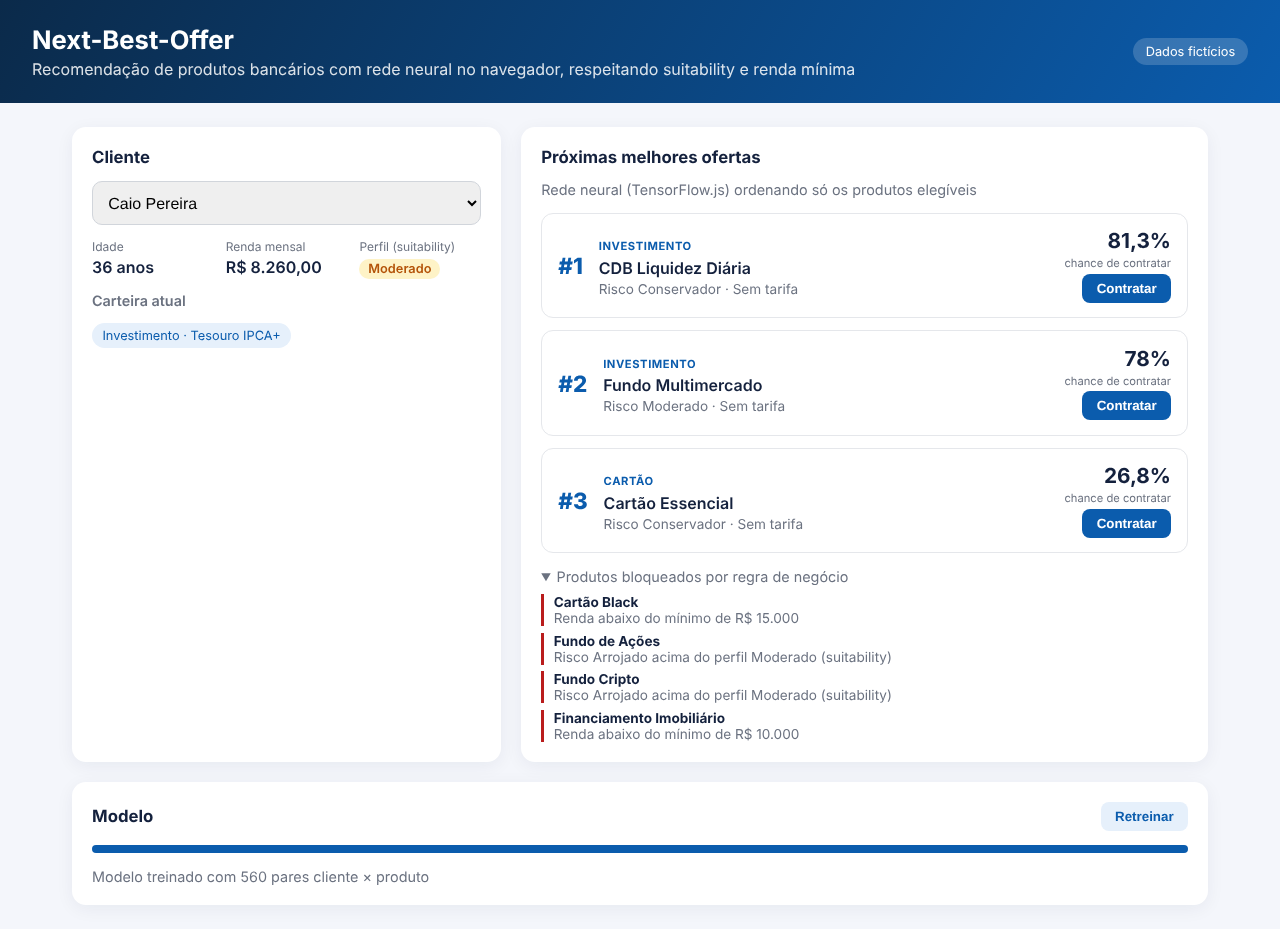
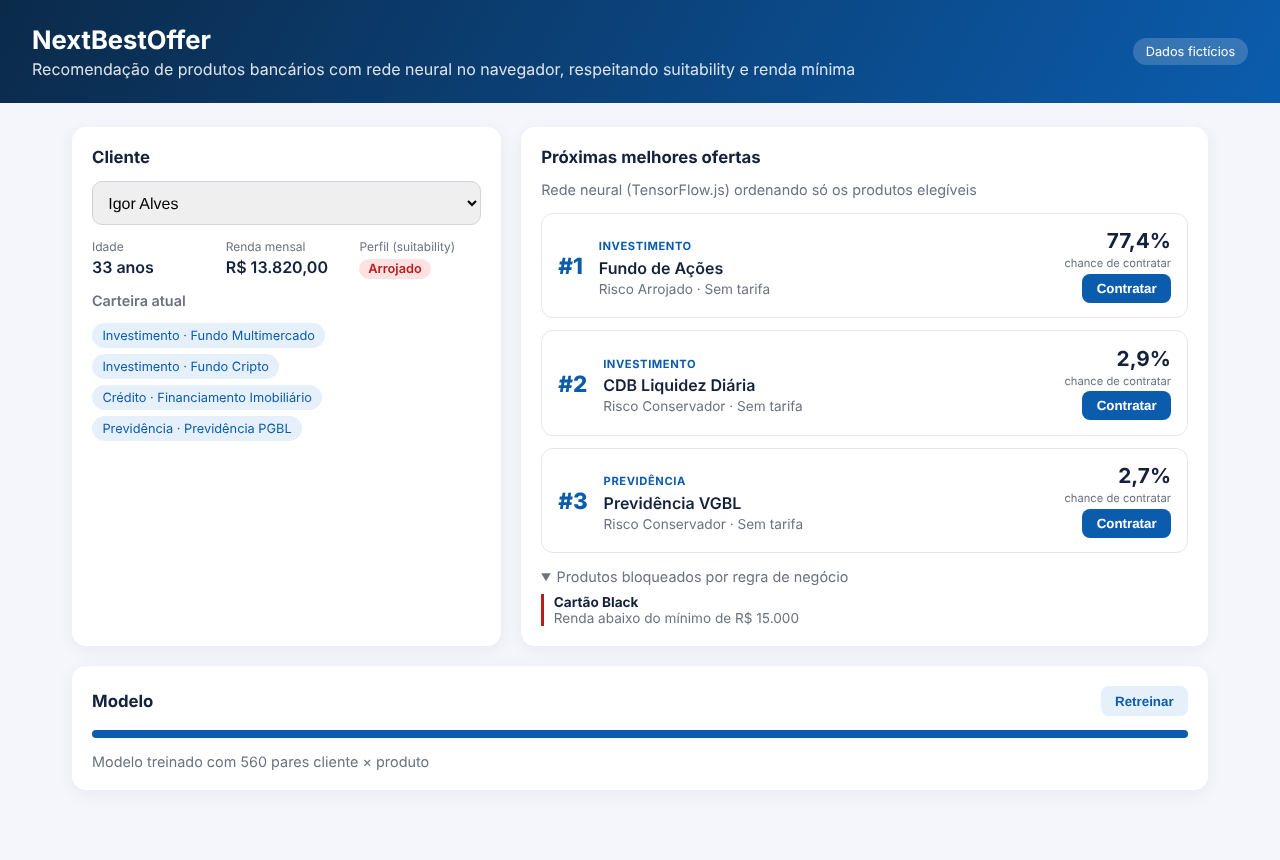
chore: adota nome NextBestOffer (PascalCase)
Claude-Session: https://claude.ai/code/session_014HeZmXkXvk6a77DcngPG81

diff --git a/index.html b/index.html
@@ -3,14 +3,14 @@
 <head>
     <meta charset="UTF-8">
     <meta name="viewport" content="width=device-width, initial-scale=1.0">
-    <title>Next-Best-Offer - Recomendador bancário com IA</title>
+    <title>NextBestOffer - Recomendador bancário com IA</title>
     <link rel="stylesheet" href="./styles.css">
     <script type="module" src="./src/main.js"></script>
 </head>
 <body>
     <header class="topbar">
         <div>
-            <h1>Next-Best-Offer</h1>
+            <h1>NextBestOffer</h1>
             <p>Recomendação de produtos bancários com rede neural no navegador, respeitando suitability e renda mínima</p>
         </div>
         <span class="badge">Dados fictícios</span>

diff --git a/README.md b/README.md
@@ -1,6 +1,6 @@
-# 🏦 Next-Best-Offer - Recomendador bancário com IA
+# 🏦 NextBestOffer - Recomendador bancário com IA
 
-[![CI](https://github.com/CesarioStoquero/next-best-offer/actions/workflows/ci.yml/badge.svg)](https://github.com/CesarioStoquero/next-best-offer/actions/workflows/ci.yml)
+[![CI](https://github.com/CesarioStoquero/NextBestOffer/actions/workflows/ci.yml/badge.svg)](https://github.com/CesarioStoquero/NextBestOffer/actions/workflows/ci.yml)
 ![TensorFlow.js](https://img.shields.io/badge/TensorFlow.js-4.22-FF6F00?logo=tensorflow&logoColor=white)
 ![JavaScript](https://img.shields.io/badge/JavaScript-ES2023-F7DF1E?logo=javascript&logoColor=black)
 ![Node](https://img.shields.io/badge/testes-node%3Atest-339933?logo=node.js&logoColor=white)
@@ -100,8 +100,8 @@ Bloco 1 · Fundamentos de Machine Learning
 Pré-requisito: **Node.js 22+**
 
 ```bash
-git clone https://github.com/CesarioStoquero/next-best-offer.git
-cd next-best-offer
+git clone https://github.com/CesarioStoquero/NextBestOffer.git
+cd NextBestOffer
 npm start
 ```
 
